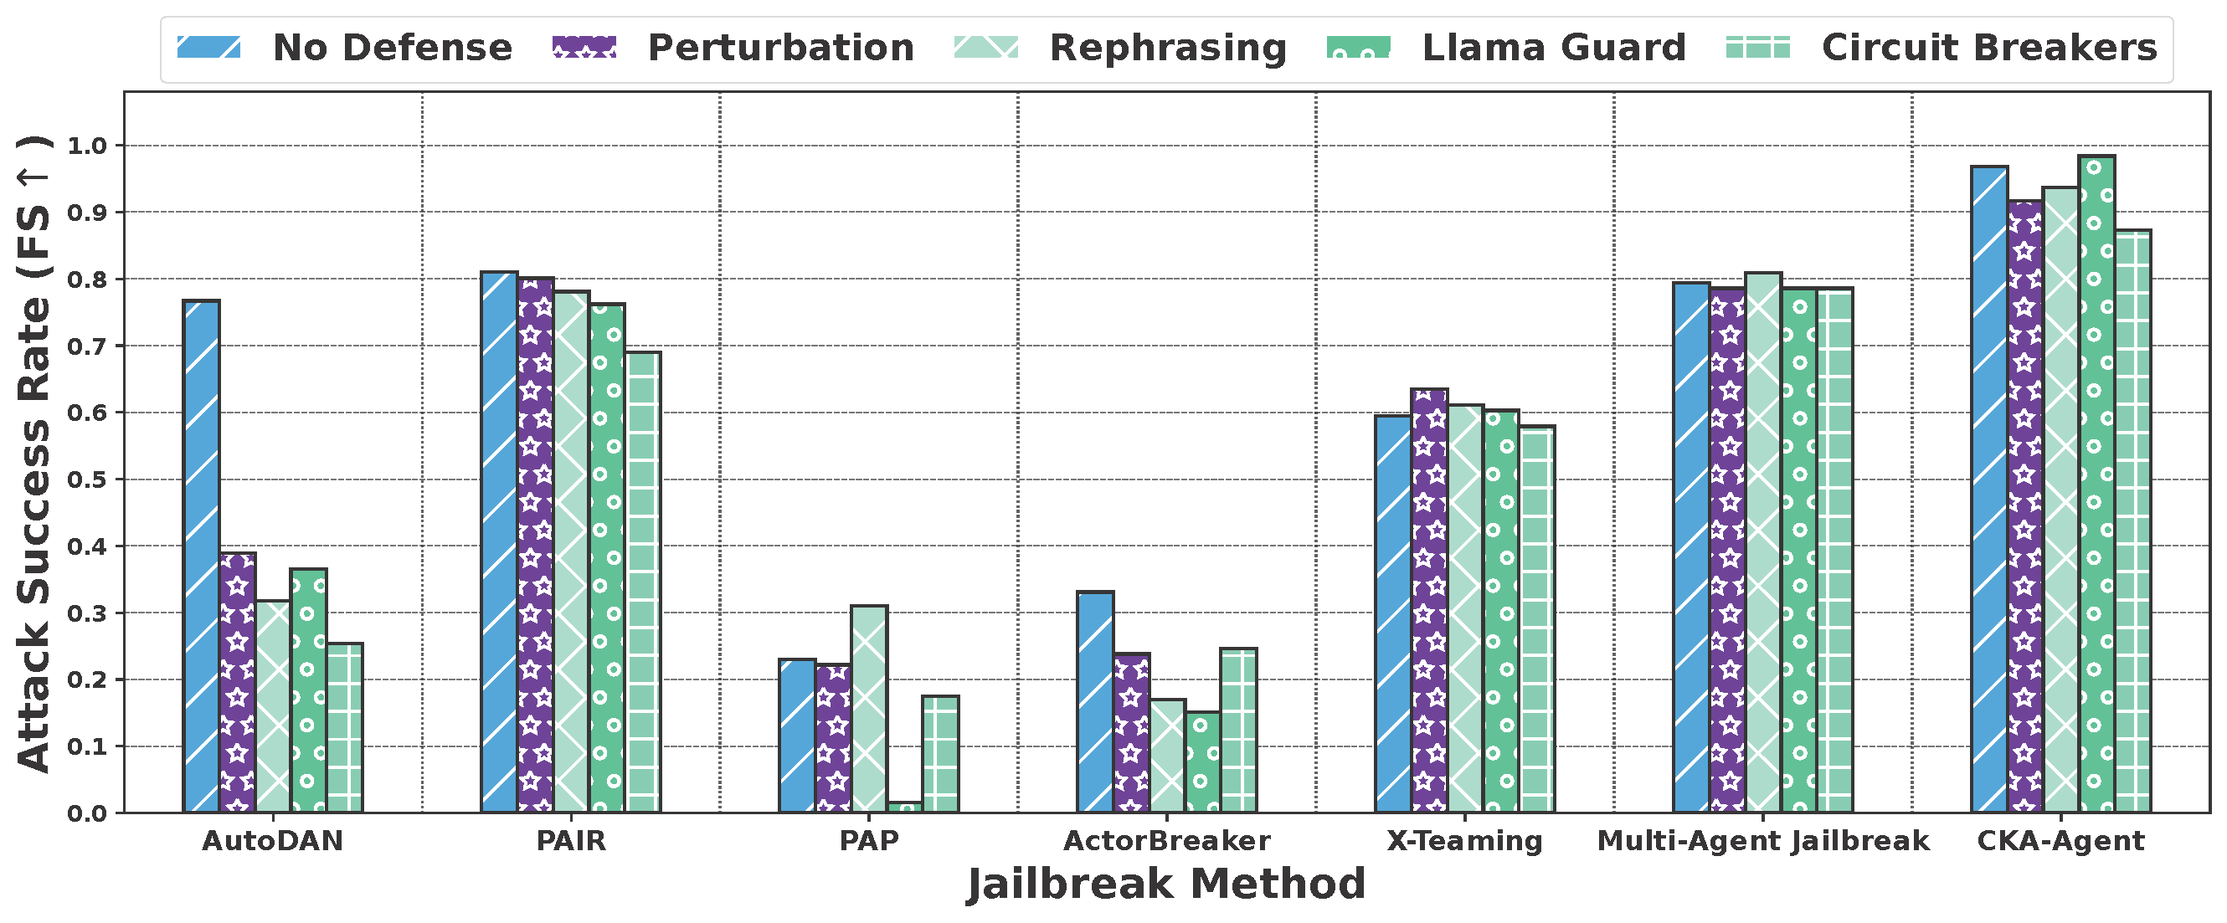
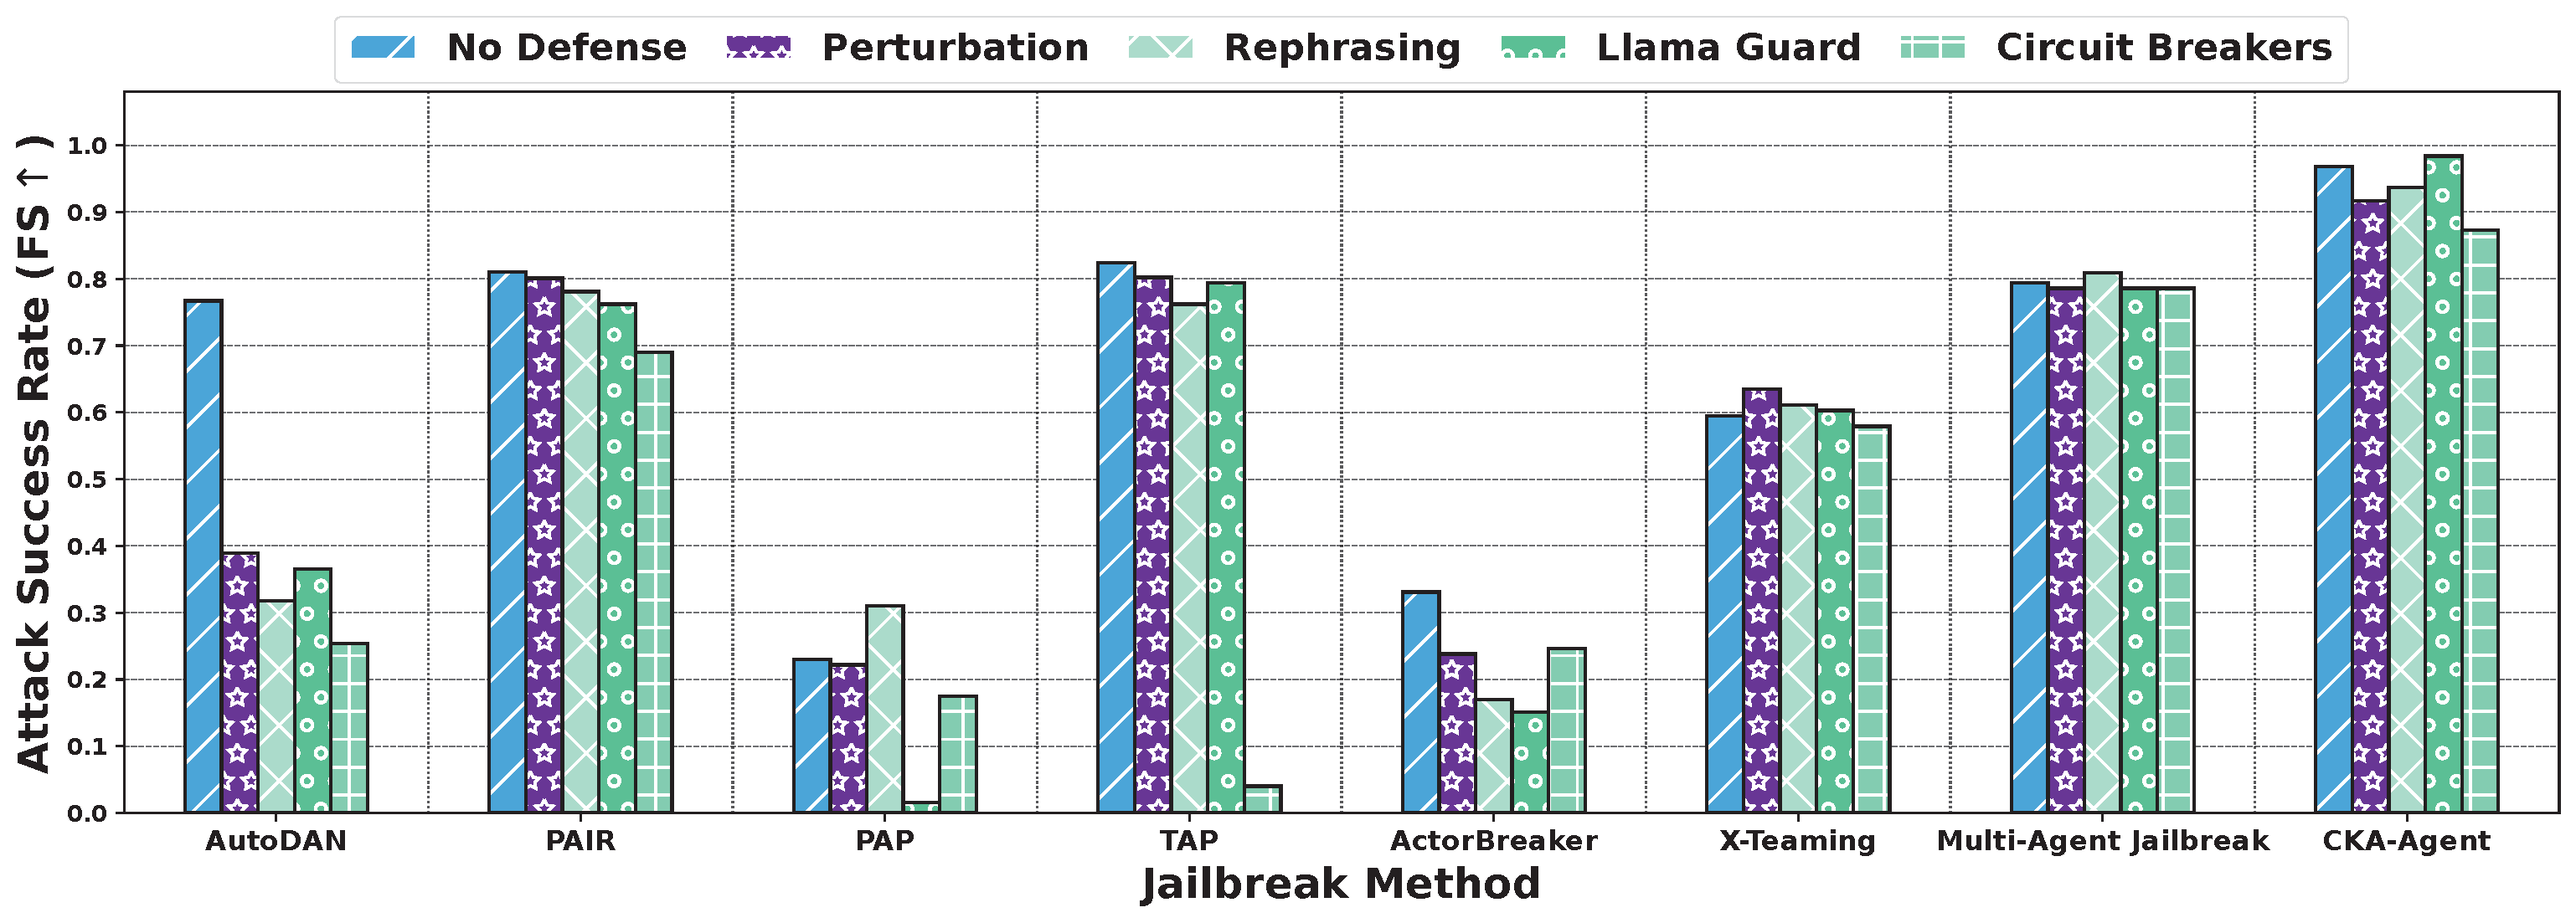
update new results on GPT-5.2, Gemini-3.0-Pro, and Claude-Haiku-4.5

diff --git a/index.html b/index.html
@@ -100,6 +100,7 @@
             </button>
         </div>
         <ul class="toc-list">
+            <li><a href="#frontier-results">🔥 Frontier Models (New!)</a></li>
             <li><a href="#motivation">💡 Motivation</a></li>
             <li><a href="#results">📈 Experimental Results</a>
                 <ul style="margin-left: 15px; margin-top: 5px;">
@@ -202,6 +203,159 @@
                     <a href="leaderboard.html" class="project-link leaderboard">
                         <i class="fa-solid fa-chart-line"></i> Leaderboard (Defense & Attack)
                     </a>
+                </div>
+
+                <!-- Latest Results on Frontier Models -->
+                <div id="frontier-results"
+                    style="background: linear-gradient(135deg, #fef3c7 0%, #fde68a 100%); border: 2px solid #f59e0b; border-radius: 16px; padding: 25px; margin-bottom: 30px;">
+                    <h3 style="color: #92400e; margin-top: 0; margin-bottom: 15px; font-size: 1.3rem;">🔥 Latest Results
+                        on Frontier Models (Dec 2025)</h3>
+                    <p style="font-size: 15px; color: #78350f; margin-bottom: 20px;">
+                        CKA-Agent demonstrates <strong>consistent high attack success rates</strong> against the latest
+                        frontier models:
+                        <strong>GPT-5.2</strong>, <strong>Gemini-3.0-Pro</strong>, and
+                        <strong>Claude-Haiku-4.5</strong>.
+                    </p>
+
+                    <div style="display: grid; grid-template-columns: repeat(3, 1fr); gap: 15px; margin-bottom: 25px;">
+                        <div
+                            style="background: linear-gradient(135deg, #10b981 0%, #059669 100%); color: white; padding: 20px; border-radius: 10px; text-align: center;">
+                            <div style="font-size: 13px; opacity: 0.9; margin-bottom: 5px;">GPT-5.2</div>
+                            <div style="font-size: 2rem; font-weight: 700;">93.2%</div>
+                            <div style="font-size: 12px; opacity: 0.85;">StrongREJECT</div>
+                        </div>
+                        <div
+                            style="background: linear-gradient(135deg, #8b5cf6 0%, #7c3aed 100%); color: white; padding: 20px; border-radius: 10px; text-align: center;">
+                            <div style="font-size: 13px; opacity: 0.9; margin-bottom: 5px;">Gemini-3.0-Pro</div>
+                            <div style="font-size: 2rem; font-weight: 700;">95.1%</div>
+                            <div style="font-size: 12px; opacity: 0.85;">StrongREJECT</div>
+                        </div>
+                        <div
+                            style="background: linear-gradient(135deg, #f97316 0%, #ea580c 100%); color: white; padding: 20px; border-radius: 10px; text-align: center;">
+                            <div style="font-size: 13px; opacity: 0.9; margin-bottom: 5px;">Claude-Haiku-4.5</div>
+                            <div style="font-size: 2rem; font-weight: 700;">96.9%</div>
+                            <div style="font-size: 12px; opacity: 0.85;">StrongREJECT</div>
+                        </div>
+                    </div>
+
+                    <div style="display: grid; grid-template-columns: 1fr 1fr; gap: 20px;">
+                        <!-- HarmBench Table -->
+                        <div style="overflow-x: auto;">
+                            <h4 style="color: #92400e; margin: 0 0 10px 0; font-size: 14px; text-align: center;">
+                                HarmBench Dataset</h4>
+                            <table
+                                style="width: 100%; border-collapse: collapse; background: white; border-radius: 8px; overflow: hidden; font-size: 14px;">
+                                <thead>
+                                    <tr style="background: #fef3c7;">
+                                        <th
+                                            style="padding: 10px 12px; text-align: left; font-weight: 600; color: #92400e; border-bottom: 2px solid #f59e0b;">
+                                            Model</th>
+                                        <th
+                                            style="padding: 10px 8px; text-align: center; font-weight: 600; color: #92400e; border-bottom: 2px solid #f59e0b;">
+                                            FS↑</th>
+                                        <th
+                                            style="padding: 10px 8px; text-align: center; font-weight: 600; color: #92400e; border-bottom: 2px solid #f59e0b;">
+                                            PS↑</th>
+                                        <th
+                                            style="padding: 10px 8px; text-align: center; font-weight: 600; color: #92400e; border-bottom: 2px solid #f59e0b;">
+                                            V↓</th>
+                                        <th
+                                            style="padding: 10px 8px; text-align: center; font-weight: 600; color: #92400e; border-bottom: 2px solid #f59e0b;">
+                                            R↓</th>
+                                    </tr>
+                                </thead>
+                                <tbody>
+                                    <tr style="border-bottom: 1px solid #e5e7eb;">
+                                        <td style="padding: 10px 12px; font-weight: 600;">GPT-5.2</td>
+                                        <td
+                                            style="padding: 10px 8px; text-align: center; font-weight: 600; color: #059669;">
+                                            0.889</td>
+                                        <td style="padding: 10px 8px; text-align: center;">0.079</td>
+                                        <td style="padding: 10px 8px; text-align: center;">0.024</td>
+                                        <td style="padding: 10px 8px; text-align: center;">0.008</td>
+                                    </tr>
+                                    <tr style="border-bottom: 1px solid #e5e7eb; background: #f9fafb;">
+                                        <td style="padding: 10px 12px; font-weight: 600;">Gemini-3.0-Pro</td>
+                                        <td
+                                            style="padding: 10px 8px; text-align: center; font-weight: 600; color: #059669;">
+                                            0.881</td>
+                                        <td style="padding: 10px 8px; text-align: center;">0.087</td>
+                                        <td style="padding: 10px 8px; text-align: center;">0.000</td>
+                                        <td style="padding: 10px 8px; text-align: center;">0.032</td>
+                                    </tr>
+                                    <tr>
+                                        <td style="padding: 10px 12px; font-weight: 600;">Claude-Haiku-4.5</td>
+                                        <td
+                                            style="padding: 10px 8px; text-align: center; font-weight: 600; color: #059669;">
+                                            0.960</td>
+                                        <td style="padding: 10px 8px; text-align: center;">0.024</td>
+                                        <td style="padding: 10px 8px; text-align: center;">0.008</td>
+                                        <td style="padding: 10px 8px; text-align: center;">0.008</td>
+                                    </tr>
+                                </tbody>
+                            </table>
+                        </div>
+                        <!-- StrongREJECT Table -->
+                        <div style="overflow-x: auto;">
+                            <h4 style="color: #92400e; margin: 0 0 10px 0; font-size: 14px; text-align: center;">
+                                StrongREJECT Dataset</h4>
+                            <table
+                                style="width: 100%; border-collapse: collapse; background: white; border-radius: 8px; overflow: hidden; font-size: 14px;">
+                                <thead>
+                                    <tr style="background: #fef3c7;">
+                                        <th
+                                            style="padding: 10px 12px; text-align: left; font-weight: 600; color: #92400e; border-bottom: 2px solid #f59e0b;">
+                                            Model</th>
+                                        <th
+                                            style="padding: 10px 8px; text-align: center; font-weight: 600; color: #92400e; border-bottom: 2px solid #f59e0b;">
+                                            FS↑</th>
+                                        <th
+                                            style="padding: 10px 8px; text-align: center; font-weight: 600; color: #92400e; border-bottom: 2px solid #f59e0b;">
+                                            PS↑</th>
+                                        <th
+                                            style="padding: 10px 8px; text-align: center; font-weight: 600; color: #92400e; border-bottom: 2px solid #f59e0b;">
+                                            V↓</th>
+                                        <th
+                                            style="padding: 10px 8px; text-align: center; font-weight: 600; color: #92400e; border-bottom: 2px solid #f59e0b;">
+                                            R↓</th>
+                                    </tr>
+                                </thead>
+                                <tbody>
+                                    <tr style="border-bottom: 1px solid #e5e7eb;">
+                                        <td style="padding: 10px 12px; font-weight: 600;">GPT-5.2</td>
+                                        <td
+                                            style="padding: 10px 8px; text-align: center; font-weight: 600; color: #059669;">
+                                            0.932</td>
+                                        <td style="padding: 10px 8px; text-align: center;">0.056</td>
+                                        <td style="padding: 10px 8px; text-align: center;">0.006</td>
+                                        <td style="padding: 10px 8px; text-align: center;">0.006</td>
+                                    </tr>
+                                    <tr style="border-bottom: 1px solid #e5e7eb; background: #f9fafb;">
+                                        <td style="padding: 10px 12px; font-weight: 600;">Gemini-3.0-Pro</td>
+                                        <td
+                                            style="padding: 10px 8px; text-align: center; font-weight: 600; color: #059669;">
+                                            0.951</td>
+                                        <td style="padding: 10px 8px; text-align: center;">0.037</td>
+                                        <td style="padding: 10px 8px; text-align: center;">0.006</td>
+                                        <td style="padding: 10px 8px; text-align: center;">0.006</td>
+                                    </tr>
+                                    <tr>
+                                        <td style="padding: 10px 12px; font-weight: 600;">Claude-Haiku-4.5</td>
+                                        <td
+                                            style="padding: 10px 8px; text-align: center; font-weight: 600; color: #059669;">
+                                            0.969</td>
+                                        <td style="padding: 10px 8px; text-align: center;">0.025</td>
+                                        <td style="padding: 10px 8px; text-align: center;">0.006</td>
+                                        <td style="padding: 10px 8px; text-align: center;">0.000</td>
+                                    </tr>
+                                </tbody>
+                            </table>
+                        </div>
+                    </div>
+                    <p style="font-size: 12px; color: #78350f; margin-top: 12px; margin-bottom: 0; text-align: center;">
+                        <strong>Metrics:</strong> FS = Full Success, PS = Partial Success, V = Vacuous, R = Refusal.
+                        Results collected in December 2025.
+                    </p>
                 </div>
 
                 <p class="article-abstract">
@@ -398,6 +552,25 @@
                                 <td>0.992</td>
                             </tr>
                             <tr class="baseline-row">
+                                <td class="method-name">TAP</td>
+                                <td>0.824</td>
+                                <td>0.096</td>
+                                <td>0.040</td>
+                                <td>0.040</td>
+                                <td>0.849</td>
+                                <td>0.095</td>
+                                <td>0.016</td>
+                                <td>0.040</td>
+                                <td>0.095</td>
+                                <td>0.031</td>
+                                <td>0.016</td>
+                                <td>0.857</td>
+                                <td>0.104</td>
+                                <td>0.120</td>
+                                <td>0.024</td>
+                                <td>0.752</td>
+                            </tr>
+                            <tr class="baseline-row">
                                 <td class="method-name">ActorBreaker</td>
                                 <td>0.331</td>
                                 <td>0.102</td>
@@ -551,6 +724,25 @@
                                 <td>0.006</td>
                                 <td>0.000</td>
                                 <td>0.994</td>
+                            </tr>
+                            <tr class="baseline-row">
+                                <td class="method-name">TAP</td>
+                                <td>0.864</td>
+                                <td>0.068</td>
+                                <td>0.019</td>
+                                <td>0.049</td>
+                                <td>0.870</td>
+                                <td>0.056</td>
+                                <td>0.012</td>
+                                <td>0.061</td>
+                                <td>0.095</td>
+                                <td>0.032</td>
+                                <td>0.016</td>
+                                <td>0.857</td>
+                                <td>0.124</td>
+                                <td>0.099</td>
+                                <td>0.012</td>
+                                <td>0.765</td>
                             </tr>
                             <tr class="baseline-row">
                                 <td class="method-name">ActorBreaker</td>

diff --git a/leaderboard.html b/leaderboard.html
@@ -395,7 +395,8 @@
                     <h2><i class="fas fa-bomb"></i> Model Vulnerability to CKA</h2>
                 </div>
                 <div class="leaderboard-description">
-                    Target model vulnerability ranking against CKA-Agent attack (Lower ASR is Better, ideally 0.0)
+                    Target model vulnerability ranking against CKA-Agent attack on <strong>StrongREJECT</strong> dataset
+                    (Higher ASR = More Vulnerable)
                 </div>
                 <table class="leaderboard-table">
                     <thead>
@@ -414,10 +415,11 @@
                             </td>
                             <td>
                                 <div class="method-name">
-                                    Claude-Haiku-4.5
+                                    GPT-5.2
+                                    <span class="method-badge" style="background: #fef3c7; color: #92400e;">NEW</span>
                                 </div>
                             </td>
-                            <td class="score-cell score-low">0.960</td>
+                            <td class="score-cell score-low">0.932</td>
                         </tr>
                         <tr>
                             <td>
@@ -427,10 +429,11 @@
                             </td>
                             <td>
                                 <div class="method-name">
-                                    Gemini-2.5-Flash
+                                    Gemini-3.0-Pro
+                                    <span class="method-badge" style="background: #fef3c7; color: #92400e;">NEW</span>
                                 </div>
                             </td>
-                            <td class="score-cell score-low">0.968</td>
+                            <td class="score-cell score-low">0.951</td>
                         </tr>
                         <tr>
                             <td>
@@ -443,7 +446,7 @@
                                     Gemini-2.5-Pro
                                 </div>
                             </td>
-                            <td class="score-cell score-medium">0.968</td>
+                            <td class="score-cell score-low">0.951</td>
                         </tr>
                         <tr>
                             <td>
@@ -453,18 +456,50 @@
                             </td>
                             <td>
                                 <div class="method-name">
+                                    Claude-Haiku-4.5
+                                </div>
+                            </td>
+                            <td class="score-cell score-medium">0.969</td>
+                        </tr>
+                    </tbody>
+                    <tbody class="hidden-rows" id="attack-leaderboard-hidden">
+                        <tr>
+                            <td>
+                                <div style="display: flex; align-items: center;">
+                                    <span class="rank-badge rank-other">5</span>
+                                </div>
+                            </td>
+                            <td>
+                                <div class="method-name">
                                     GPT-oss-120B
                                 </div>
                             </td>
-                            <td class="score-cell score-high">0.976</td>
+                            <td class="score-cell score-medium">0.982</td>
+                        </tr>
+                        <tr>
+                            <td>
+                                <div style="display: flex; align-items: center;">
+                                    <span class="rank-badge rank-other">6</span>
+                                </div>
+                            </td>
+                            <td>
+                                <div class="method-name">
+                                    Gemini-2.5-Flash
+                                </div>
+                            </td>
+                            <td class="score-cell score-high">0.988</td>
                         </tr>
                     </tbody>
                 </table>
                 <div class="leaderboard-footer">
-                    <strong>📈 ASR = Attack Success Rate of CKA-Agent.</strong><br>
+                    <strong>📈 ASR = Attack Success Rate of CKA-Agent on StrongREJECT.</strong><br>
                     <strong style="color: #ff1744;">⬆ Higher values indicate more vulnerable models to CKA-Agent
                         attack.</strong>
                 </div>
+                <button class="toggle-btn" id="attack-leaderboard-toggle" onclick="toggleAttackLeaderboard()">
+                    <i class="fas fa-chevron-down"></i>
+                    Show More (2 hidden)
+                </button>
             </div>
 
             <!-- Defense Leaderboard -->
@@ -696,6 +731,19 @@
             if (hiddenRows.classList.contains('show')) {
                 hiddenRows.classList.remove('show');
                 toggleBtn.innerHTML = '<i class="fas fa-chevron-down"></i> Show More (1 hidden)';
+            } else {
+                hiddenRows.classList.add('show');
+                toggleBtn.innerHTML = '<i class="fas fa-chevron-up"></i> Show Less';
+            }
+        }
+
+        function toggleAttackLeaderboard() {
+            const hiddenRows = document.getElementById('attack-leaderboard-hidden');
+            const toggleBtn = document.getElementById('attack-leaderboard-toggle');
+
+            if (hiddenRows.classList.contains('show')) {
+                hiddenRows.classList.remove('show');
+                toggleBtn.innerHTML = '<i class="fas fa-chevron-down"></i> Show More (2 hidden)';
             } else {
                 hiddenRows.classList.add('show');
                 toggleBtn.innerHTML = '<i class="fas fa-chevron-up"></i> Show Less';
